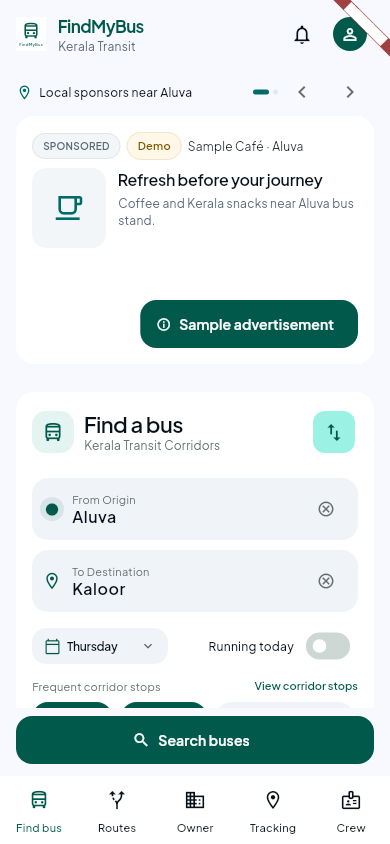
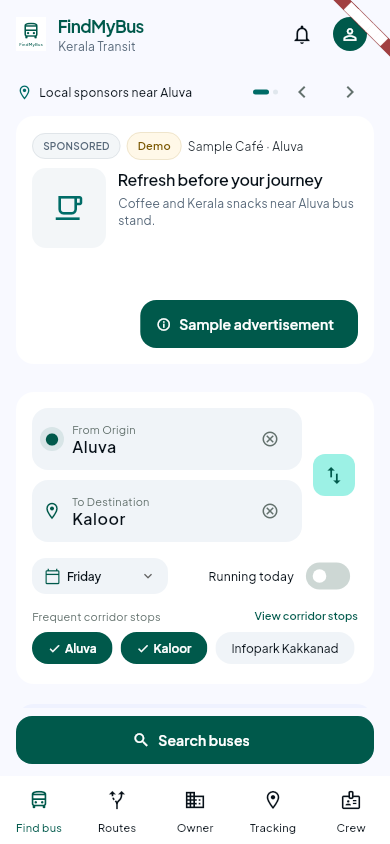
Record compact search review and remove temporary review workflow

diff --git a/docs/home-reference-review.md b/docs/home-reference-review.md
@@ -47,3 +47,7 @@ Validation covers button/keyboard submission, scroll laziness with 200 records, 
 - [Mobile search home](screenshots/mobile-search-home.png)
 - [Mobile results sheet](screenshots/mobile-results-sheet.png)
 - [Results with enlarged text](screenshots/mobile-results-large-text.png)
+
+## Compact stop search
+
+The search card starts directly with origin and destination. The redundant “Find a bus / Kerala Transit Corridors” heading and bus tile are removed. On mobile the swap control sits beside the stacked fields, centred between them; on desktop it remains between the horizontal fields. The existing Riverpod swap, clear, filters and mobile results-sheet actions are unchanged.
